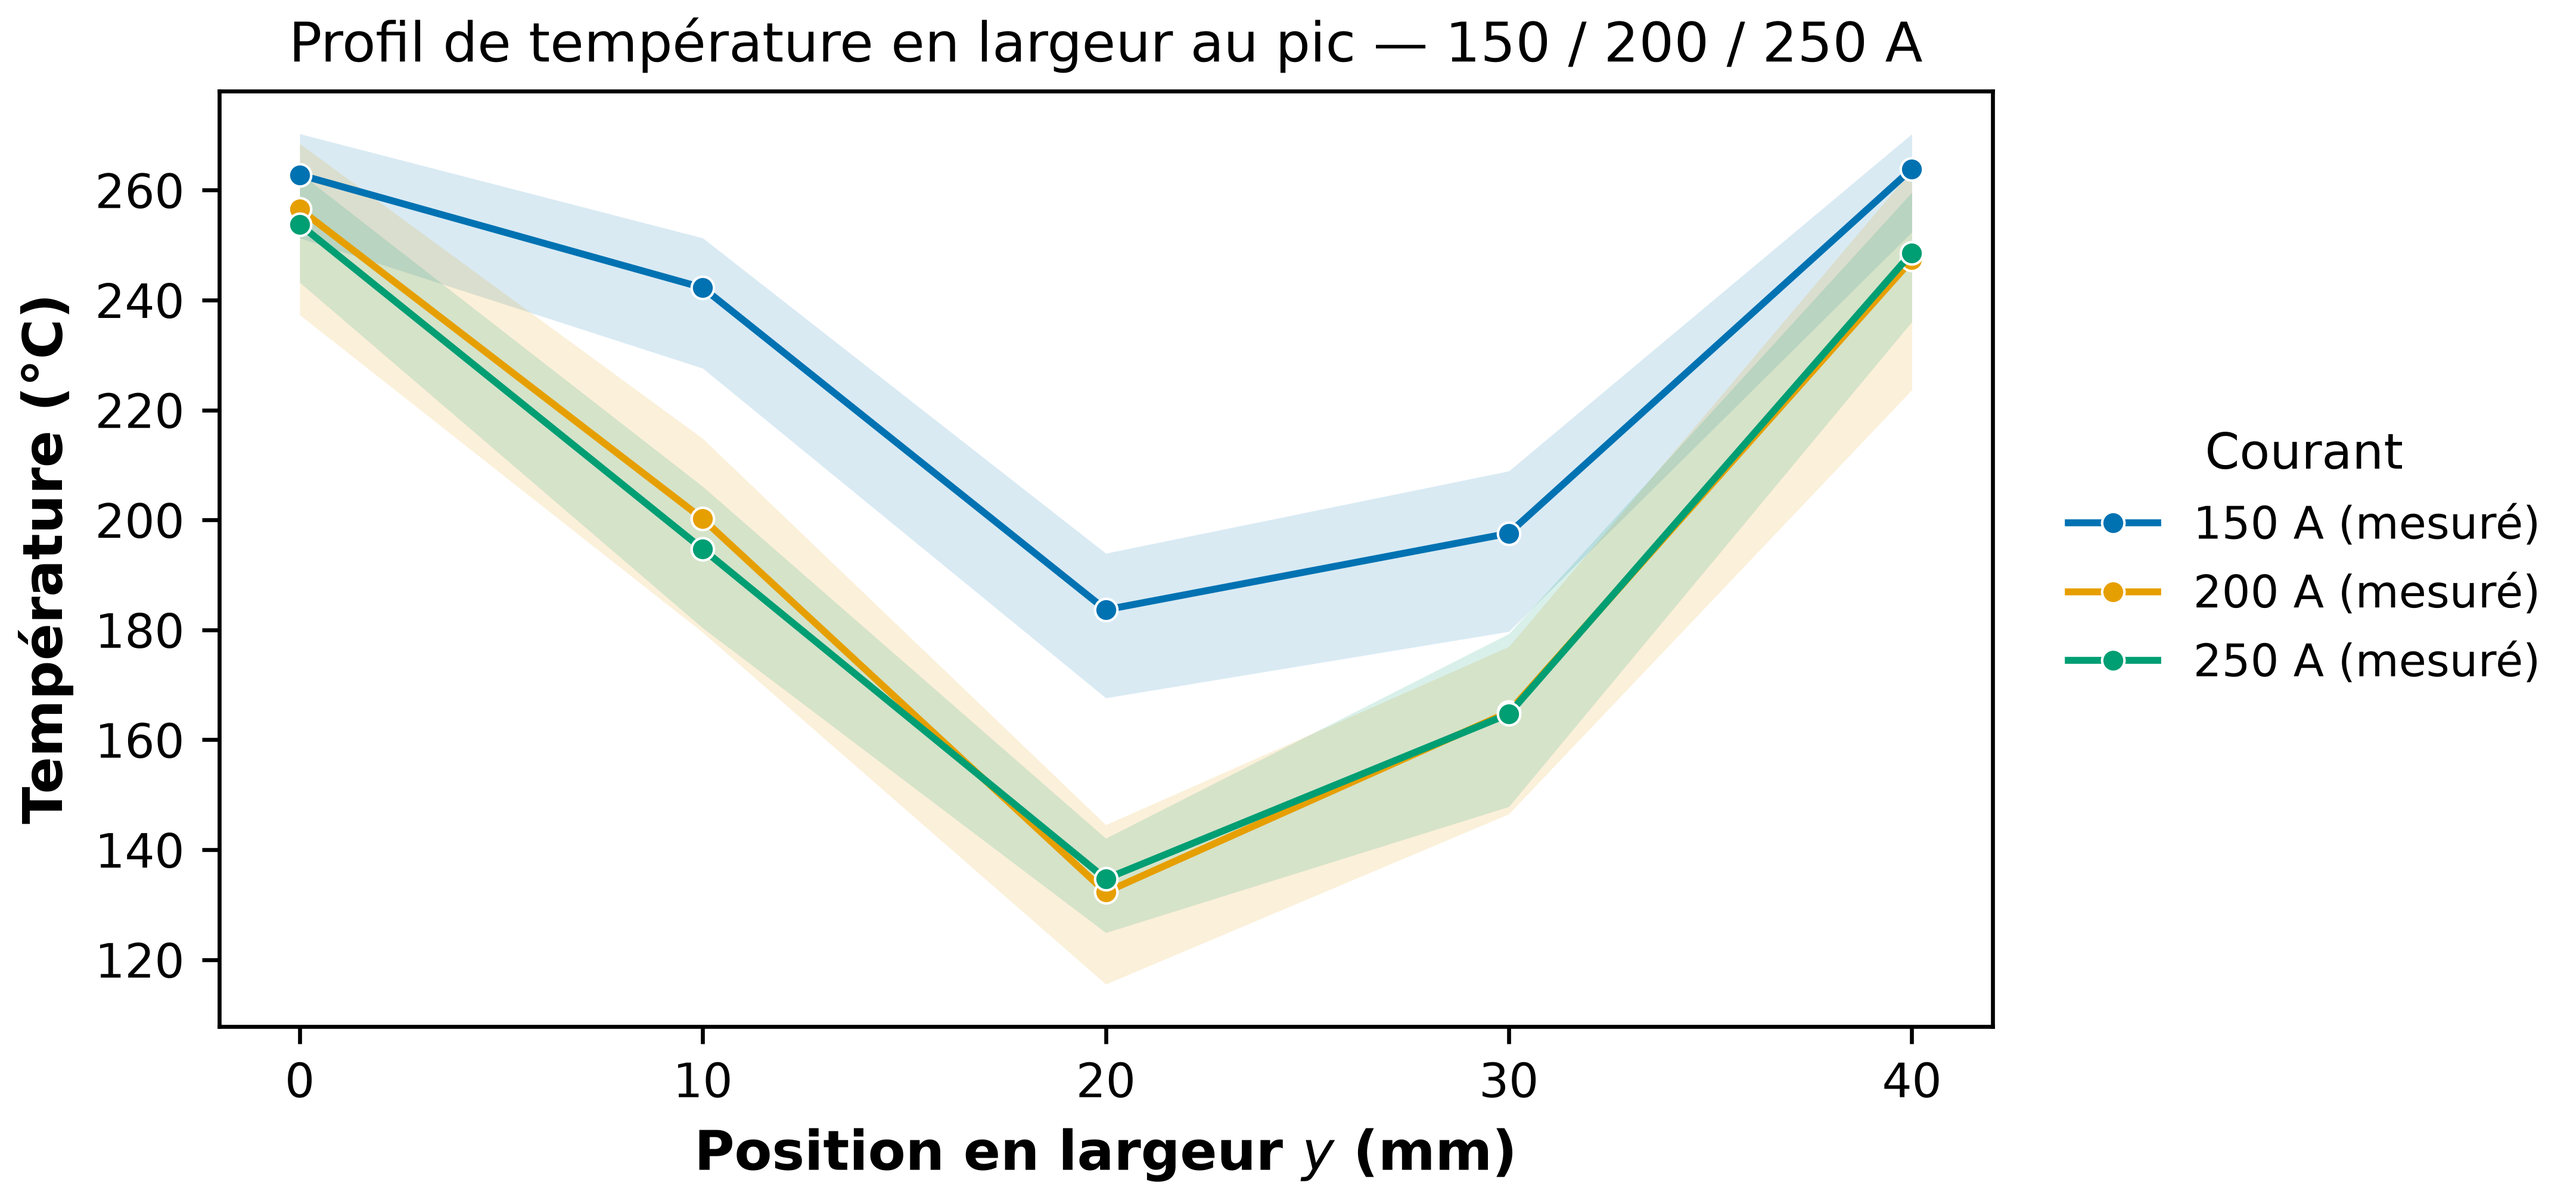
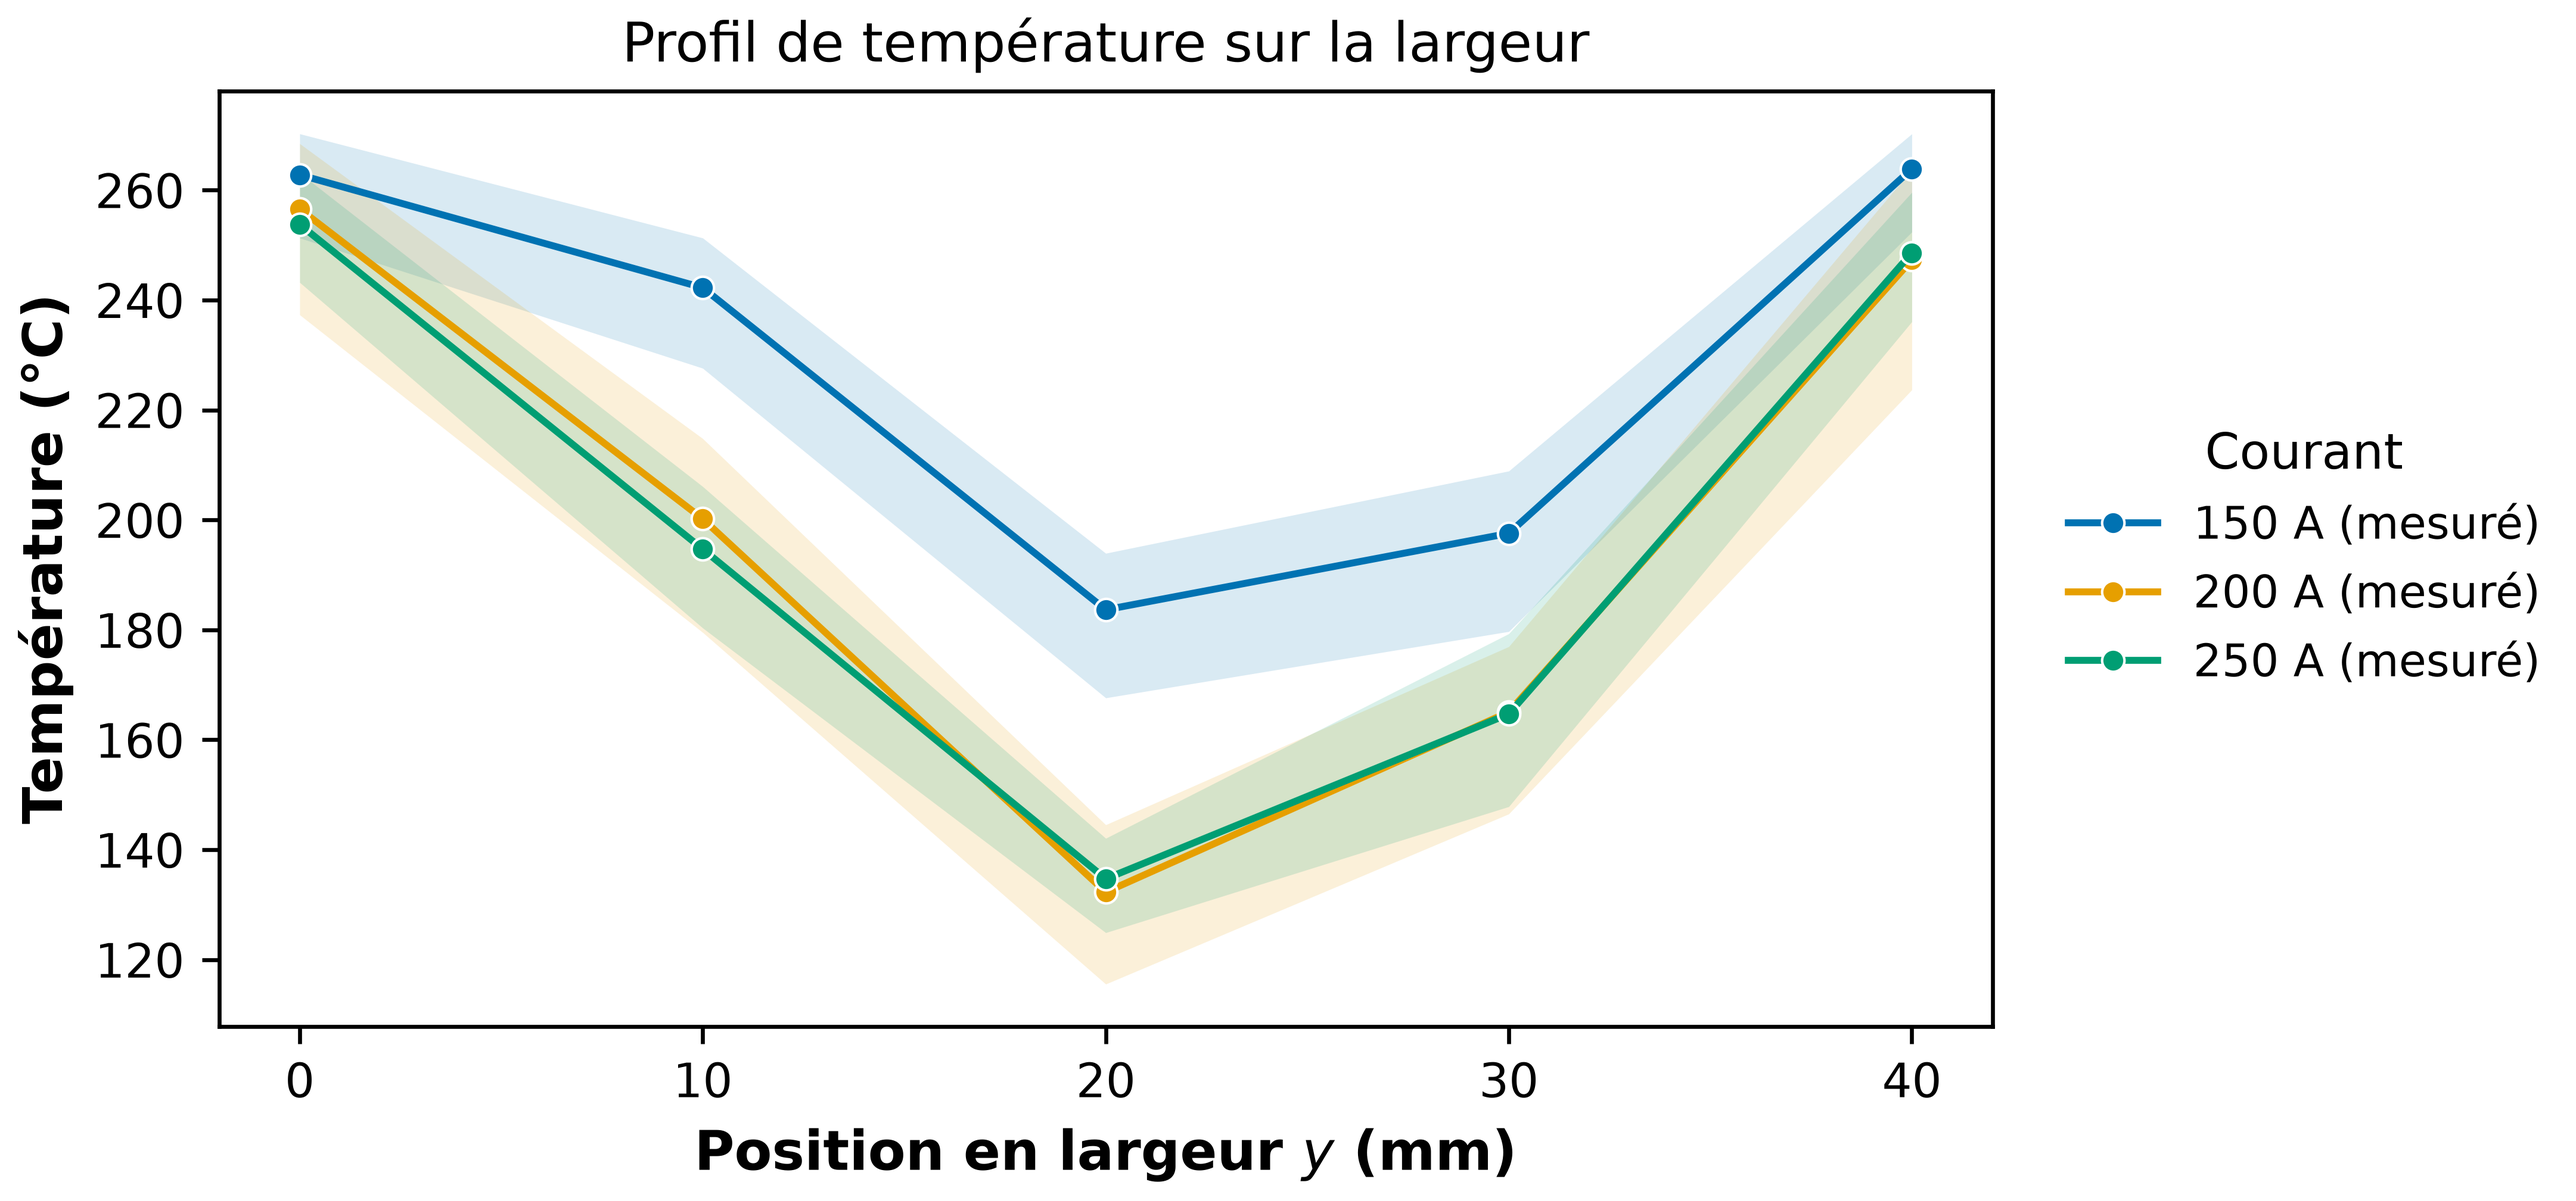
figs: titres 'Profil de température sur la largeur' (fig1, fig2@200A) + légende fig2 raccourcie (Mesuré/Modèle, contraste en annotation)

Changed region(s): [[0.1249, 0.0, 0.7495, 0.0625]]

diff --git a/code/scripts/gen/gen_figures_elsevier.py b/code/scripts/gen/gen_figures_elsevier.py
@@ -184,7 +184,7 @@ def fig1():
         ax.fill_between(Y_MM, peaks.min(axis=0), peaks.max(axis=0),
                         color=colors[I], alpha=0.15, lw=0)
     ax.set_xticks(Y_MM)
-    ax.set_title("Profil de température en largeur au pic — 150 / 200 / 250 A")
+    ax.set_title("Profil de température sur la largeur")
     ax.set_xlabel("Position en largeur $y$ (mm)")
     ax.set_ylabel("Température (°C)")
     legend_right(ax, title="Courant")
@@ -219,14 +219,14 @@ def fig2():
     c_mes = ((mesure[0] + mesure[4]) / 2 - amb) / (mesure[2] - amb)
     c_mod = ((modele[0] + modele[4]) / 2 - amb_m) / (modele[2] - amb_m)
     ax.plot(Y_MM, mesure, "-o", color=C200, markeredgecolor="white", markeredgewidth=0.5,
-            label=f"Mesuré — exp7, 200 A (contraste {c_mes:.2f})".replace(".", ","))
+            label="Mesuré")
     ax.plot(Y_MM, modele, "--s", color=C_MODEL, markeredgecolor="white", markeredgewidth=0.5,
-            label=f"Modèle 2D, θ* réf. (contraste {c_mod:.2f})".replace(".", ","))
+            label="Modèle")
     ax.set_xticks(Y_MM)
-    ax.set_title("Forme du profil en largeur : mesuré vs modèle (200 A)")
+    ax.set_title("Profil de température sur la largeur à 200 A")
     ax.set_xlabel("Position en largeur $y$ (mm)")
     ax.set_ylabel("Température (°C)")
-    ax.annotate("le modèle sur-contraste\nle M (chants trop chauds)",
+    ax.annotate(f"le modèle sur-contraste le M\n(contraste {c_mod:.2f} vs {c_mes:.2f} mesuré)".replace(".", ","),
                 xy=(0, modele[0]), xytext=(38, -4), textcoords="offset points",
                 fontsize=8, color="0.35", ha="left", va="top",
                 arrowprops=dict(arrowstyle="-", color="0.55", lw=0.6))
